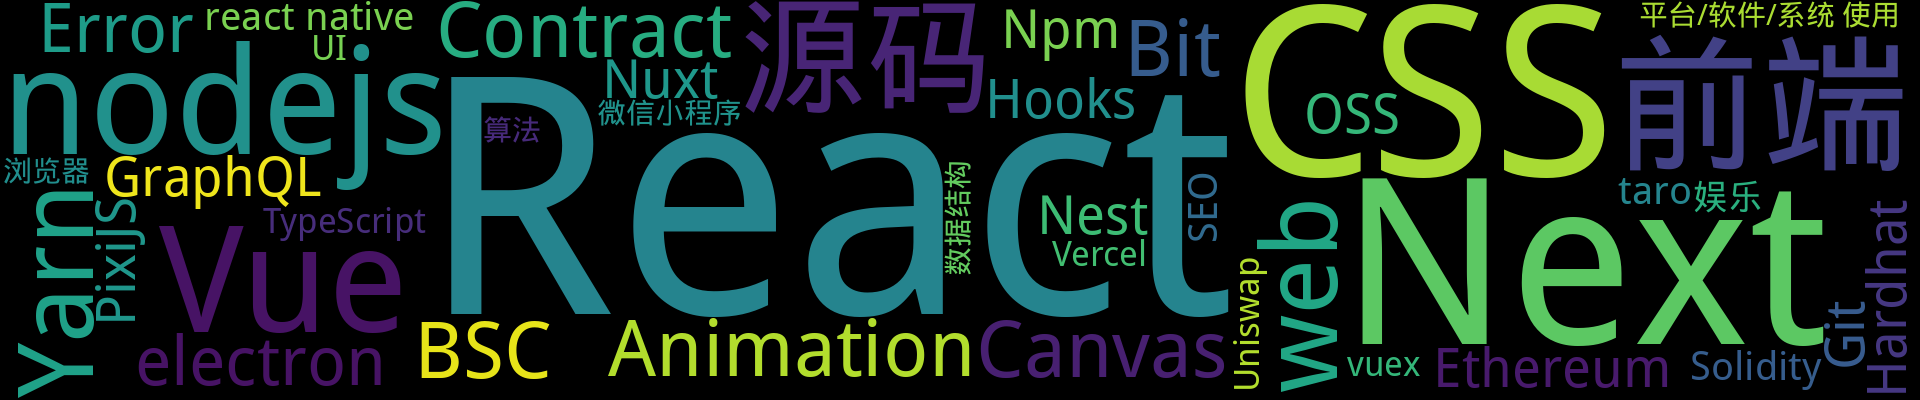
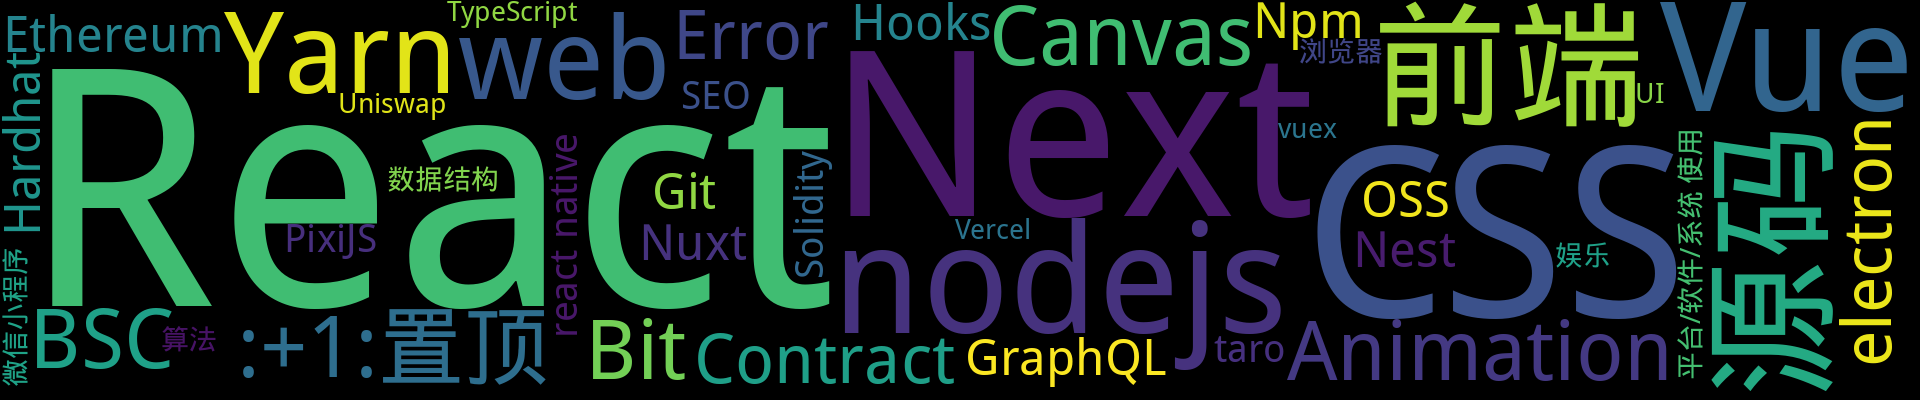
Update from Github Action

diff --git a/README.md b/README.md
@@ -3,7 +3,7 @@
 <p align='center'>
     <img src="https://badgen.net/badge/labels/54"/>
     <img src="https://badgen.net/github/issues/xiaotiandada/ghiblog"/>
-    <img src="https://badgen.net/badge/last-commit/2022-06-07 07:30:56"/>
+    <img src="https://badgen.net/badge/last-commit/2022-06-07 08:08:12"/>
     <img src="https://badgen.net/github/forks/xiaotiandada/ghiblog"/>
     <img src="https://badgen.net/github/stars/xiaotiandada/ghiblog"/>
     <img src="https://badgen.net/github/watchers/xiaotiandada/ghiblog"/>
@@ -18,6 +18,7 @@
 
 
 ## 置顶 :thumbsup: 
+- [React](https://github.com/xiaotiandada/blog/issues/96)  <sup>0 :speech_balloon:</sup>  	 
 ## 最新 :new: 
 
 #### [FileReader API](https://github.com/xiaotiandada/blog/issues/110) <sup>0 :speech_balloon:</sup> 	 2022-06-04 16:58:54
@@ -100,8 +101,9 @@
 
 
 <details>
-<summary>:+1:置顶	<sup>0:newspaper:</sup></summary>
+<summary>:+1:置顶	<sup>1:newspaper:</sup></summary>
 
+- [React](https://github.com/xiaotiandada/blog/issues/96)  <sup>0 :speech_balloon:</sup>  	 
 
 
 </details>
